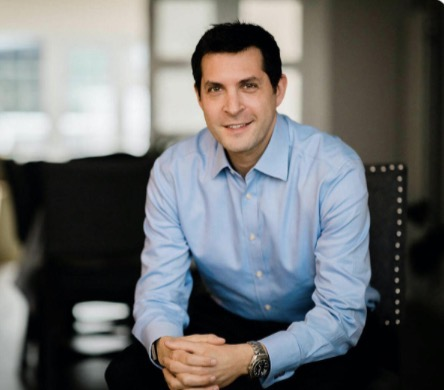
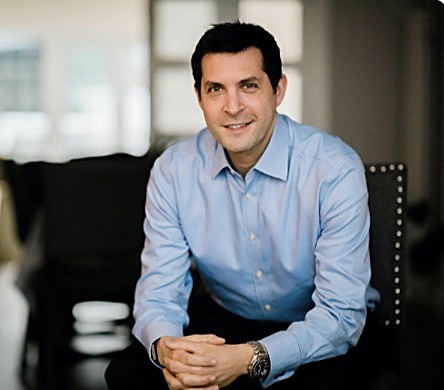
Expand Avi's bio to full text, shrink photo so the card dominates, sharpen photo
Title is now "Founder and Director" with the full three-paragraph bio
as provided. Photo/card split changed from 59/48 to 29/78 so the photo
reads much smaller and the card carries the weight, matching the
reference. Applied a mild unsharp mask to the existing photo file —
it's a real quality improvement but the source is only 444x390px, so
a visibly crisper result needs a higher-resolution original.

Claude-Session: https://claude.ai/code/session_01GPRk5FT5jzMRp3YMnDBq5T

diff --git a/web/src/components/team.tsx b/web/src/components/team.tsx
@@ -16,9 +16,11 @@ const team: TeamMember[] = [
   {
     photo: "images/avi-founder.jpg",
     name: "Avi Leaf",
-    title: "Founder",
+    title: "Founder and Director",
     bio: [
-      "25+ years of global BioPharma and consulting experience across large, medium and small BioPharma companies, with deep expertise launching, commercialising and building growth for product portfolios.",
+      "Avi has more than 24 years experience working in global, regional and local roles in large, medium and small pharmaceutical companies.",
+      "Avi has extensive experience launching, commercialising and building growth for product portfolios, optimising brand performance across the full product lifecycle from Phase 1 through launch to loss of exclusivity, with experience in many major therapy areas, oncology and rare disease.",
+      "Avi has successfully built, led, developed, engaged and motivated teams whilst maintaining focus on a clear strategy and tactical delivery through a leadership style that is clear, values-driven and empowering.",
     ],
   },
   {
@@ -40,12 +42,12 @@ export default function Team() {
           width:73%; margin: 0 auto;
         }
         .team-photo{
-          flex:0 0 59%; min-width:0; border-radius:12px; overflow:hidden;
+          flex:0 0 29%; min-width:0; border-radius:12px; overflow:hidden;
           aspect-ratio: 3 / 2; box-shadow:0 1px 3px rgba(16,24,40,.08);
         }
         .team-photo img{ width:100%; height:100%; object-fit:cover; display:block; }
         .team-card{
-          flex:0 0 48%; min-width:0; position:relative; z-index:1;
+          flex:0 0 78%; min-width:0; position:relative; z-index:1;
           margin-left:-7%; background:#ffffff; border-radius:8px;
           border-top:3px solid ${BLUE};
           box-shadow:0 16px 32px -18px rgba(4,53,128,.25);
